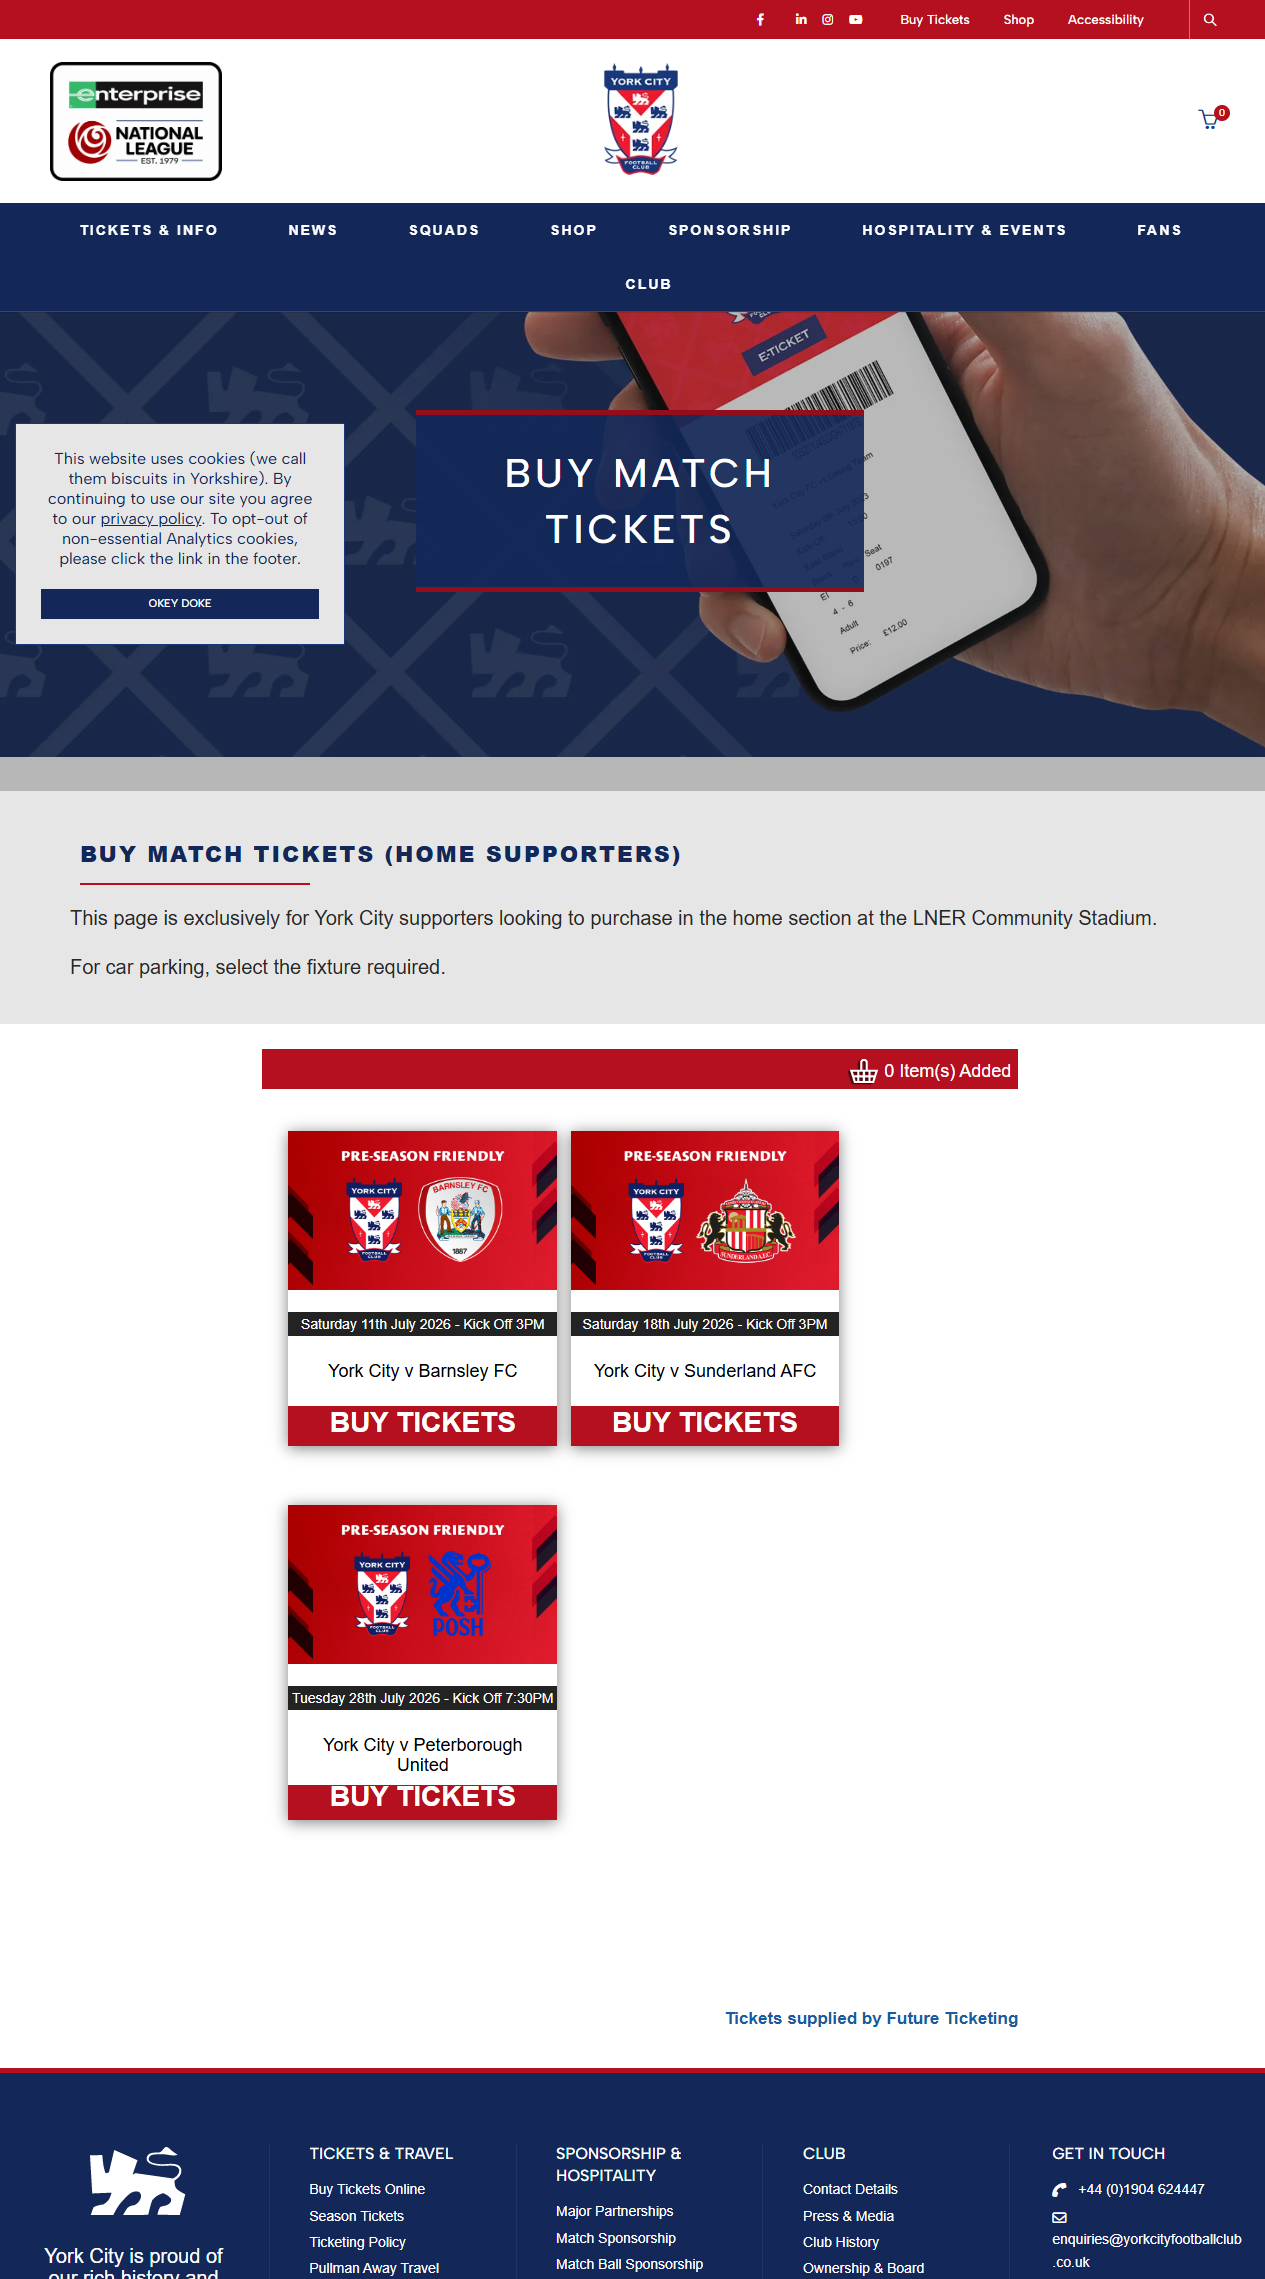
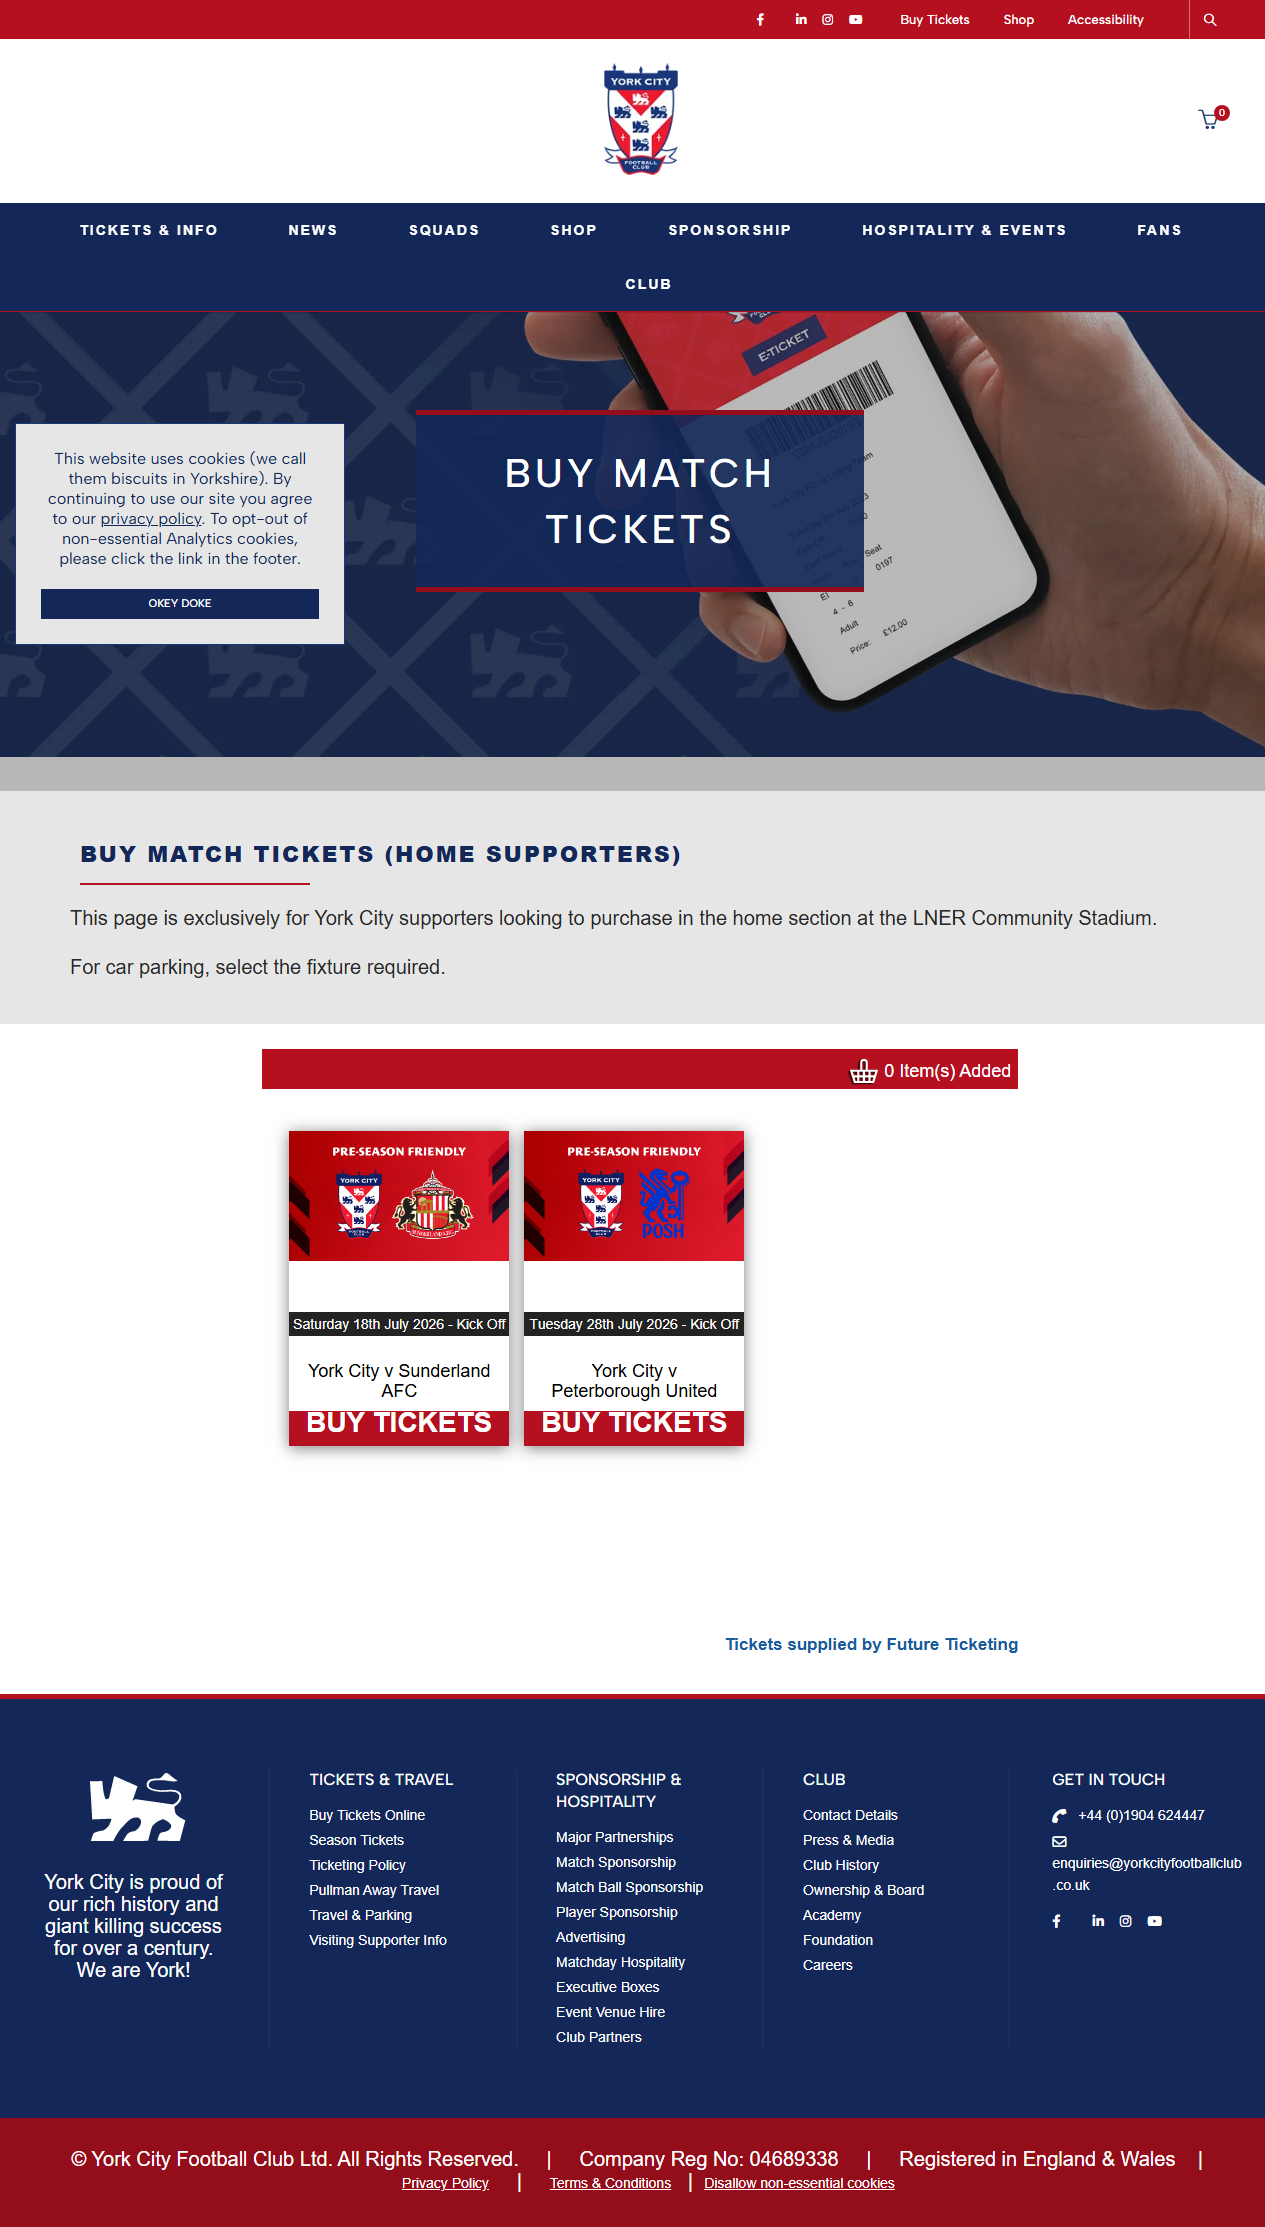
Improved fixture detection using team matching via json file rather than regex detection

diff --git a/ticket.py b/ticket.py
@@ -1,10 +1,15 @@
 from PIL import Image
 import pytesseract
-import re
+from pytesseract import Output
 import json
 import os
 import smtplib
 from email.message import EmailMessage
+from playwright.sync_api import sync_playwright
+
+# ----------------------------
+# CONFIGURATION
+# ----------------------------
 
 pytesseract.pytesseract.tesseract_cmd = (
     r"C:\Program Files\Tesseract-OCR\tesseract.exe"
@@ -12,29 +17,114 @@ pytesseract.pytesseract.tesseract_cmd = (
 
 IMAGE_PATH = "fixtures_full.png"
 DATA_FILE = "fixtures.json"
+TEAMS_FILE = "teams.json"
 
 EMAIL_FROM = "georgewilliams383@gmail.com"
 EMAIL_TO = "georgewilliams383@gmail.com"
 EMAIL_PASSWORD = os.getenv("YCFC_GMAIL_PASSWORD")
 
+# IMPORTANT:
+# Point this at the COPY of your Chrome profile, not your live profile.
+CHROME_PROFILE = r"C:\ycfc\ChromeProfile"
+
+TICKETS_URL = "https://yorkcityfootballclub.co.uk/buy-tickets/"
+
+
+# ----------------------------
+# TAKE A FRESH SCREENSHOT
+# ----------------------------
+
+def take_screenshot():
+    print("Opening browser...")
+
+    with sync_playwright() as p:
+        browser = p.chromium.launch_persistent_context(
+            user_data_dir=CHROME_PROFILE,
+            headless=False
+        )
+
+        page = browser.new_page()
+
+        print("Loading ticket page...")
+        page.goto(TICKETS_URL, wait_until="networkidle")
+
+        # Give Future Ticketing time to render
+        page.wait_for_timeout(8000)
+
+        print("Taking screenshot...")
+        page.screenshot(path=IMAGE_PATH, full_page=True)
+
+        browser.close()
+
+    print("Screenshot saved.\n")
+
+
+# ----------------------------
+# OCR
+# ----------------------------
 
 def extract_text(image_path):
     return pytesseract.image_to_string(Image.open(image_path))
 
 
-def extract_fixtures(text):
-    text = re.sub(r"\s+", " ", text)
+# ----------------------------
+# FIND FIXTURES
+# ----------------------------
 
-    pattern = r"York City\s+v(?:s)?\s+([A-Za-z]+)"
-    matches = re.findall(pattern, text, flags=re.IGNORECASE)
+def load_teams():
 
-    fixtures = []
+    if not os.path.exists(TEAMS_FILE):
+        print("teams.json not found")
+        return []
 
-    for team in matches:
-        fixtures.append(f"York City vs {team}")
+    with open(TEAMS_FILE, "r") as f:
+        return json.load(f)
 
-    return list(dict.fromkeys(fixtures))
 
+
+def extract_fixtures(image_path):
+
+    print("Running OCR...")
+
+    image = Image.open(image_path)
+
+    data = pytesseract.image_to_data(
+        image,
+        output_type=Output.DICT
+    )
+
+
+    teams = load_teams()
+
+    detected = []
+
+
+    print("\n--- OCR WORDS ---")
+
+    for word in data["text"]:
+
+        word = word.strip()
+
+        if word:
+            print(word)
+
+            # remove punctuation
+            clean = word.replace(",", "").replace(".", "")
+
+            if clean in teams:
+                detected.append(
+                    f"York City vs {clean}"
+                )
+
+
+    print("-----------------\n")
+
+
+    return list(dict.fromkeys(detected))
+
+# ----------------------------
+# LOAD PREVIOUS RESULTS
+# ----------------------------
 
 def load_previous():
     if not os.path.exists(DATA_FILE):
@@ -44,16 +134,29 @@ def load_previous():
         return json.load(f)
 
 
+# ----------------------------
+# SAVE CURRENT RESULTS
+# ----------------------------
+
 def save_current(fixtures):
     with open(DATA_FILE, "w") as f:
         json.dump(fixtures, f, indent=2)
 
 
+# ----------------------------
+# COMPARE
+# ----------------------------
+
 def get_new_fixtures(old, new):
     return [fixture for fixture in new if fixture not in old]
 
 
+# ----------------------------
+# EMAIL ALERT
+# ----------------------------
+
 def send_email(new_fixtures):
+
     if not EMAIL_PASSWORD:
         print("Email password not configured.")
         return
@@ -72,32 +175,44 @@ def send_email(new_fixtures):
             smtp.login(EMAIL_FROM, EMAIL_PASSWORD)
             smtp.send_message(msg)
 
-        print("Email sent.")
+        print("Email sent successfully.")
+
     except Exception as e:
         print("Email failed:", e)
 
 
-def main():
-    text = extract_text(IMAGE_PATH)
+# ----------------------------
+# MAIN
+# ----------------------------
 
-    fixtures = extract_fixtures(text)
+def main():
+
+    take_screenshot()
+
+    fixtures = extract_fixtures(IMAGE_PATH)
 
     if not fixtures:
-        print("No fixtures detected")
+        print("No fixtures detected.")
         return
 
-    print("Current fixtures:")
+    print("\nCURRENT FIXTURES:")
+
     for fixture in fixtures:
-        print("-", fixture)
+        print(fixture)
 
     previous = load_previous()
 
-    new_fixtures = get_new_fixtures(previous, fixtures)
+    new_fixtures = get_new_fixtures(
+        previous,
+        fixtures
+    )
 
     if new_fixtures:
-        print("\nNEW FIXTURES FOUND:")
+
+        print("\n🚨 NEW FIXTURES FOUND:")
+
         for fixture in new_fixtures:
-            print("🚨", fixture)
+            print(fixture)
 
         send_email(new_fixtures)
 
@@ -106,6 +221,12 @@ def main():
 
     save_current(fixtures)
 
+    print("\nFinished.")
+
+
+# ----------------------------
+# ENTRY POINT
+# ----------------------------
 
 if __name__ == "__main__":
     main()
